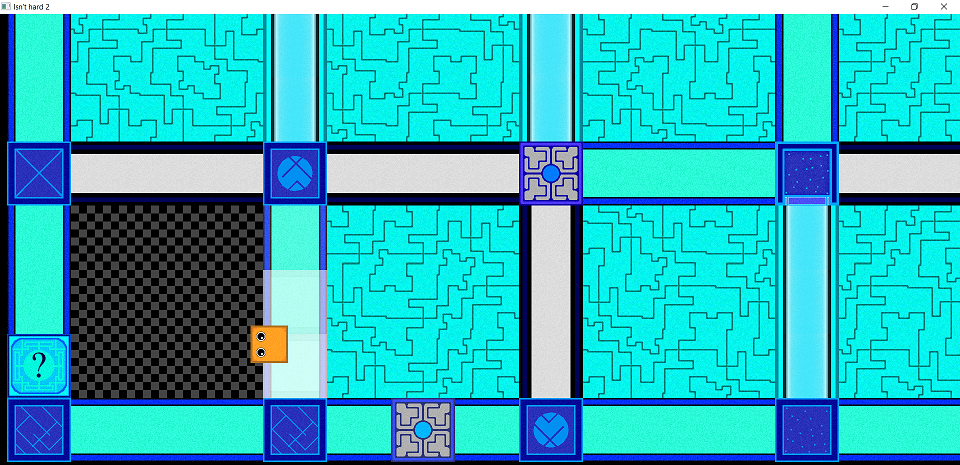
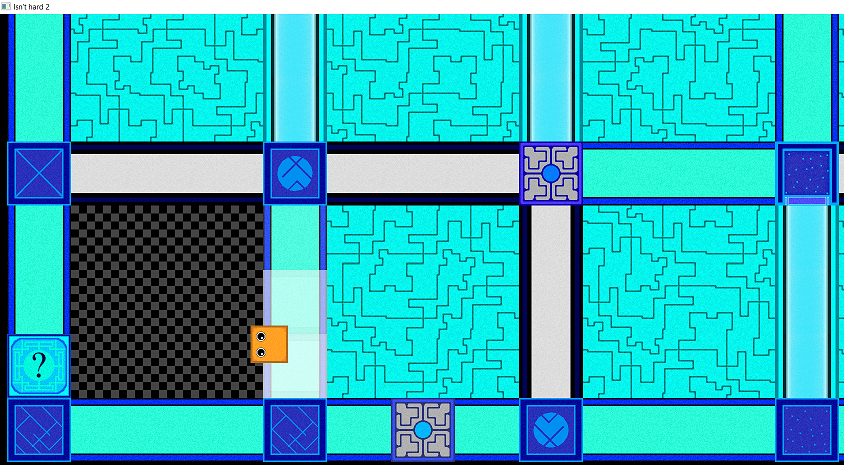
Finally!!!

diff --git a/det.html b/det.html
@@ -23,11 +23,11 @@
                 <section><a class="link2" href="https://docs.google.com/presentation/d/1V302HGjrdrlMF7PQEMViiy_cAVC2_1vu/edit?usp=sharing&ouid=114415855384394999389&rtpof=true&sd=true">Смотреть презентацию</a></section>
                 <section><a class="link2" href="https://docs.google.com/document/d/1fgxbudzz7e5ZrblG4acFZVuqdKstL_x7/edit?usp=sharing&ouid=114415855384394999389&rtpof=true&sd=true">Смотреть подробный доклад</a></section>
                 <p>Начал я его делать ещё в 8 классе, поэтому в девятом осталось только допилить презентацию и сам доклад. Представляет он собой плату Arduino uno и подключённые датчики с дисплеем внутри корпуса из-под небольшого электрического щитка. Также присутствует специальный адаптер для подключения к электросети.</p>
-                <img src="det.png">
+                <img src="det2.jpg">
                 <p>Он умееть измерять температуру и влажность воздуха, а также реагировать на горючий газ.</p>
-                <img src="det.png">
+                <img src="det1.jpg">
                 <p>Кроме того, можно легко заменить один датчик на другой, лишь переподключив провода и перепрограммировав устройство через квадратный USB порт.</p>
-                <img src="det.png">
+                <img src="det3.jpg">
                 <p>Но со временем корпус разболтался изнутри, а также выяснилось, что через пять минут работы он нагревается и реагирует сам на себя. Однако для демонтсрации он более чем подходит. Так что этот проект я считаю вполне успешным с небольшим минусом.</p>
             </section>
         </article>

diff --git a/Isn't hard 2.html b/Isn't hard 2.html
@@ -30,9 +30,9 @@
                 <p>Персонаж - это простой кубик с глазками, раньше задумывалась предыстория персонажа и катсцены с другими, но из-за того, что нарисовать что-то нормальное не выходило, от идеи пришлось отказаться.</p>
                 <img src="Isn't hard 2 screenshot.png">
                 <p>Он передвигается по различным комнатам. Чтобы пройти уровень, надо найти все монетки и переместиться к финишу. Но не всё так просто. В комнатах будут различнве двери, кнопки, детекторы самого игрока и даже взгляда игрока. Механик действительно предостаточно, что сделает путешествие по уровням действительно интересным и сложным.</p>
-                <img class="projects" src="Isn't hard 2 screenshot2-3.png"> <img class="projects" src="Isn't hard 2 screenshot2.png">
+                <img src="Isn't hard 2 screenshot2-3.png"> <img src="Isn't hard 2 screenshot2.png">
                 <p>Но это ещё не всё! Вы сможете создать свой уровень, сохранить его и отправить знакомым! Сетевую игру не реализую, но вот перекидывать файлики пользователи смогут и сами. Чтобы связать дверь и кнопку нужно будет выставить правильную группу. Главное, чтобы цвет и цифры были одинаковыми, иначе у вас выйдет неправильный уровень.</p>
-                <img class="projects" src="Isn't hard 2 screenshot4.png">
+                <img src="Isn't hard 2 screenshot4.png">
             </section>
         </article>
         <h1><b>Когда выйдет?</b></h1>

diff --git a/style.css b/style.css
@@ -29,6 +29,9 @@ footer {
 img {
     margin: auto;
     display: block;
+  height: auto;
+  width: auto;
+max-width: 80%;
 }
 
 h1 {
